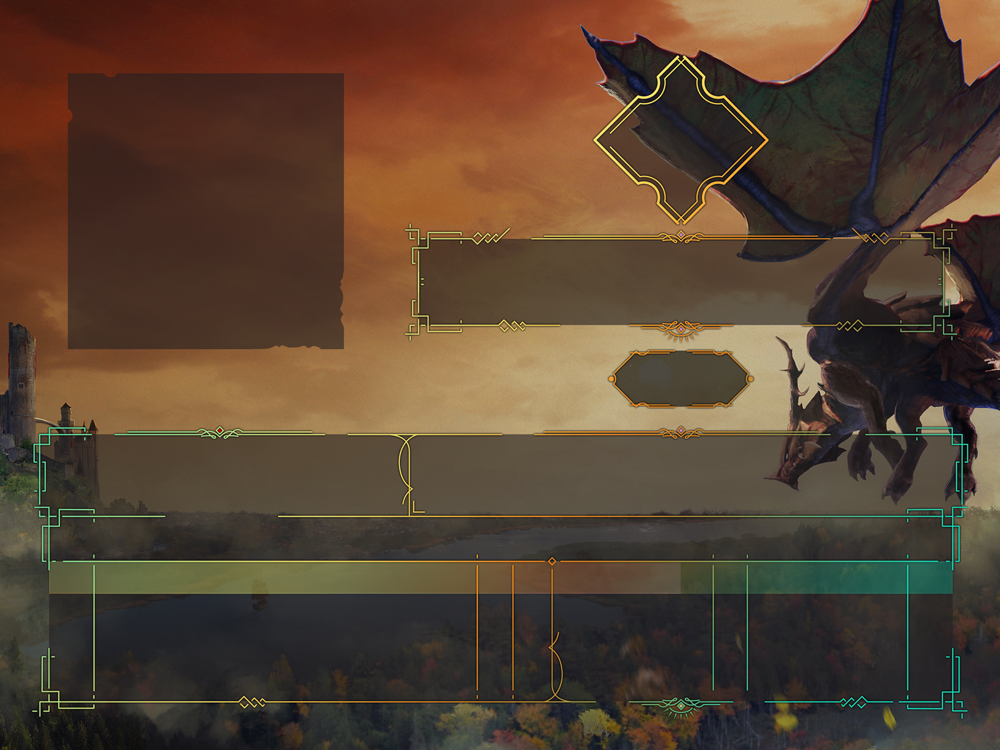
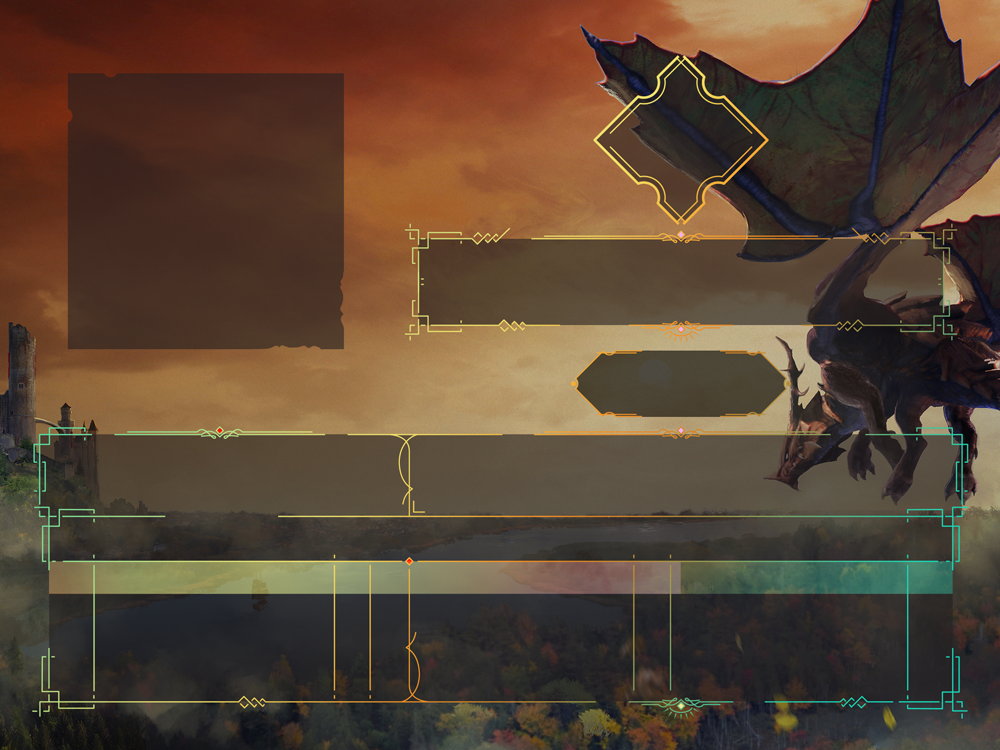
Add seasonal rank percentage range and improve font sizing
Updated the model, the API specification, and the assembly logic to include the seasonal rank percentage range. Improved font sizing by encapsulating the logic to shrink the text within a maximum width and height into a re-usable method. Also, specific text rendering sections have been refractored to use predefined fonts and paints for more consistent styling and less redundancy.

diff --git a/src/BLL/ProfileCardAssembler.cs b/src/BLL/ProfileCardAssembler.cs
@@ -7,6 +7,8 @@ internal static class ProfileCardAssembler
     private static readonly SKTypeface _contentTypeface = SKTypeface.FromFamilyName("Marcellus");
     private static readonly SKFont _titleFont = new(_titleTypeface, size: 28f);
     private static readonly SKPaint _titlePaint = new(_titleFont) { Color = _textColor };
+    private static readonly SKFont _guildFont = new(_titleTypeface, size: 40f);
+    private static readonly SKPaint _guildPaint = new(_guildFont) { Color = _textColor };
     private static readonly SKFont _unitsAndRankFont = new(_contentTypeface, size: 22f);
     private static readonly SKPaint _unitsAndRankPaint = new(_unitsAndRankFont) { Color = _textColor };
     private static readonly SKFont _tableHeaderFont = new(_titleTypeface, size: 24f);
@@ -36,6 +38,7 @@ internal static class ProfileCardAssembler
         canvas.DrawImage(rankImage, 617, 76);
         WriteName(canvas, displayName);
         WriteGuildTag(canvas, guildTag);
+        WriteRankWithPercentageRange(canvas, profileData.SeasonalRankName, profileData.SeasonalRankPercentageRange);
         WriteUnitsAndRank(canvas, profileData);
         WritePlayStyles(canvas, hasPvpRole, hasArtisanRole, hasPveRole);
         WriteCharactersTitle(canvas);
@@ -55,21 +58,7 @@ internal static class ProfileCardAssembler
         };
 
         // Calculate name and name position
-        SKRect nameSize = new();
-        do
-        {
-            namePaint.MeasureText(displayName, ref nameSize);
-            if (nameSize.Width > maxNameLengthInPixel)
-            {
-                nameFont.Size--; // Reduce font size for drawing.
-                namePaint.TextSize--; // Reduce paint size for measuring.
-            }
-            else if (nameSize.Height > maxNameHeightInPixel)
-            {
-                nameFont.Size--; // Reduce font size for drawing.
-                namePaint.TextSize--; // Reduce paint size for measuring.
-            }
-        } while (nameSize.Width > maxNameLengthInPixel || nameSize.Height > maxNameHeightInPixel);
+        var nameSize = ShrinkFontAndPaintToFitSize(displayName, nameFont, namePaint, maxNameLengthInPixel, maxNameHeightInPixel);
 
         // Measure the tallest letter to get the vertical offset of the baseline.
         float verticalLetterSize = 0;
@@ -101,18 +90,40 @@ internal static class ProfileCardAssembler
     private static void WriteGuildTag(SKCanvas canvas,
                                       string guildTag)
     {
-        var guildFont = new SKFont(_titleTypeface, size: 40f);
-        var guildPaint = new SKPaint(guildFont)
-        {
-            Color = _textColor
-        };
         SKRect guildTagSize = new();
-        guildPaint.MeasureText(guildTag, ref guildTagSize);
+        _guildPaint.MeasureText(guildTag, ref guildTagSize);
         canvas.DrawText(guildTag,
                         682f - guildTagSize.Width / 2f,
-                        378f + guildTagSize.Height / 2f,
-                        guildFont,
-                        guildPaint);
+                        372f + guildTagSize.Height / 2f,
+                        _guildFont,
+                        _guildPaint);
+    }
+    
+    private static void WriteRankWithPercentageRange(SKCanvas canvas,
+                                      string rank,
+                                      string? percentageRange)
+    {
+        const float maxWidthInPixel = 172f;
+        const float maxHeightInPixel = 19f;
+        
+        var rankAndPercentageRangeFont = new SKFont(_contentTypeface, size: 18f);
+        var rankAndPercentageRangePaint = new SKPaint(rankAndPercentageRangeFont) { Color = _textColor };
+    
+        var sb = new StringBuilder(rank);
+        if (percentageRange is not null)
+            sb.Append($" ({percentageRange})");
+        var text = sb.ToString();
+        
+        var rankAndPercentageRangeSize = ShrinkFontAndPaintToFitSize(text,
+                                                                     rankAndPercentageRangeFont,
+                                                                     rankAndPercentageRangePaint,
+                                                                     maxWidthInPixel,
+                                                                     maxHeightInPixel);
+        canvas.DrawText(text,
+                        682f - rankAndPercentageRangeSize.Width / 2f,
+                        398f + rankAndPercentageRangeSize.Height / 2f,
+                        rankAndPercentageRangeFont,
+                        rankAndPercentageRangePaint);
     }
 
     private static void WriteUnitsAndRank(SKCanvas canvas,
@@ -190,27 +201,27 @@ internal static class ProfileCardAssembler
                         _tableHeaderFont,
                         _tableHeaderPaint);
         canvas.DrawText("Character",
-                        236f,
+                        165f,
                         tableHeaderVerticalOffset,
                         _tableHeaderFont,
                         _tableHeaderPaint);
         canvas.DrawText("Class",
-                        489f,
+                        347f,
                         tableHeaderVerticalOffset,
                         _tableHeaderFont,
                         _tableHeaderPaint);
         canvas.DrawText("Artisan",
-                        595f,
+                        485f,
                         tableHeaderVerticalOffset,
                         _tableHeaderFont,
                         _tableHeaderPaint);
         canvas.DrawText("Lv",
-                        718f,
+                        640f,
                         tableHeaderVerticalOffset,
                         _tableHeaderFont,
                         _tableHeaderPaint);
         canvas.DrawText("Artisan",
-                        790f,
+                        752f,
                         tableHeaderVerticalOffset,
                         _tableHeaderFont,
                         _tableHeaderPaint);
@@ -227,8 +238,8 @@ internal static class ProfileCardAssembler
     {
         const float verticalOffsetIncrement = 32f;
         const float levelCellWidth = 32f;
-        const float nameCellWidth = 381f;
-        const float artisanCellWidth = 139f;
+        const float nameCellWidth = 238f;
+        const float artisanCellWidth = 212f;
         
         var verticalCharacterOffset = 585f;
         foreach (var characterData in profileData.Characters.OrderBy(m => m.Order))
@@ -245,17 +256,17 @@ internal static class ProfileCardAssembler
                                                                 nameCellWidth,
                                                                 _tableContentPaint);
             canvas.DrawText(characterName.Text,
-                            95f + characterName.Offset,
+                            94f + characterName.Offset,
                             verticalCharacterOffset,
                             _tableContentFont,
                             _tableContentPaint);
             
             canvas.DrawImage(archetypeImages[characterData.PrimaryArchetype],
-                             479f,
+                             336f,
                              verticalCharacterOffset - 23f);
 
             canvas.DrawImage(archetypeImages[characterData.SecondaryArchetype],
-                             516f,
+                             373f,
                              verticalCharacterOffset - 23f);
             
             if (characterData.PrimaryProfession is not null && characterData.PrimaryProfessionLevel is not null)
@@ -264,7 +275,7 @@ internal static class ProfileCardAssembler
                                                                  artisanCellWidth,
                                                                  _tableContentPaint);
                 canvas.DrawText(profession.Text,
-                                563f + profession.Offset,
+                                415f + profession.Offset,
                                 verticalCharacterOffset,
                                 _tableContentFont,
                                 _tableContentPaint);
@@ -272,7 +283,7 @@ internal static class ProfileCardAssembler
                                                                       levelCellWidth,
                                                                       _tableContentPaint);
                 canvas.DrawText(professionLevel.Text,
-                                714f + professionLevel.Offset,
+                                636f + professionLevel.Offset,
                                 verticalCharacterOffset,
                                 _tableContentFont,
                                 _tableContentPaint);
@@ -284,7 +295,7 @@ internal static class ProfileCardAssembler
                                                                  artisanCellWidth,
                                                                  _tableContentPaint);
                 canvas.DrawText(profession.Text,
-                                758f + profession.Offset,
+                                682f + profession.Offset,
                                 verticalCharacterOffset,
                                 _tableContentFont,
                                 _tableContentPaint);
@@ -326,5 +337,30 @@ internal static class ProfileCardAssembler
             paint.MeasureText(shortenedText + "...", ref nameSize);
         }
         return (shortenedText + "...", padding);
+    }
+
+    private static SKRect ShrinkFontAndPaintToFitSize(string text,
+                                                      SKFont font,
+                                                      SKPaint paint,
+                                                      float maxWidthInPixel,
+                                                      float maxHeightInPixel)
+    {
+        SKRect size = new();
+        do
+        {
+            paint.MeasureText(text, ref size);
+            if (size.Width > maxWidthInPixel)
+            {
+                font.Size--; // Reduce font size for drawing.
+                paint.TextSize--; // Reduce paint size for measuring.
+            }
+            else if (size.Height > maxHeightInPixel)
+            {
+                font.Size--; // Reduce font size for drawing.
+                paint.TextSize--; // Reduce paint size for measuring.
+            }
+        } while (size.Width > maxWidthInPixel || size.Height > maxHeightInPixel);
+
+        return size;
     }
 }

diff --git a/src/Shared/Objects/ProfileInfoResponse.cs b/src/Shared/Objects/ProfileInfoResponse.cs
@@ -3,4 +3,5 @@
 public record ProfileInfoResponse( decimal SeasonalTokens,
                                    long SeasonalRank,
                                    string SeasonalRankName,
+                                   string? SeasonalRankPercentageRange,
                                    ProfileCharacterData[] Characters);
